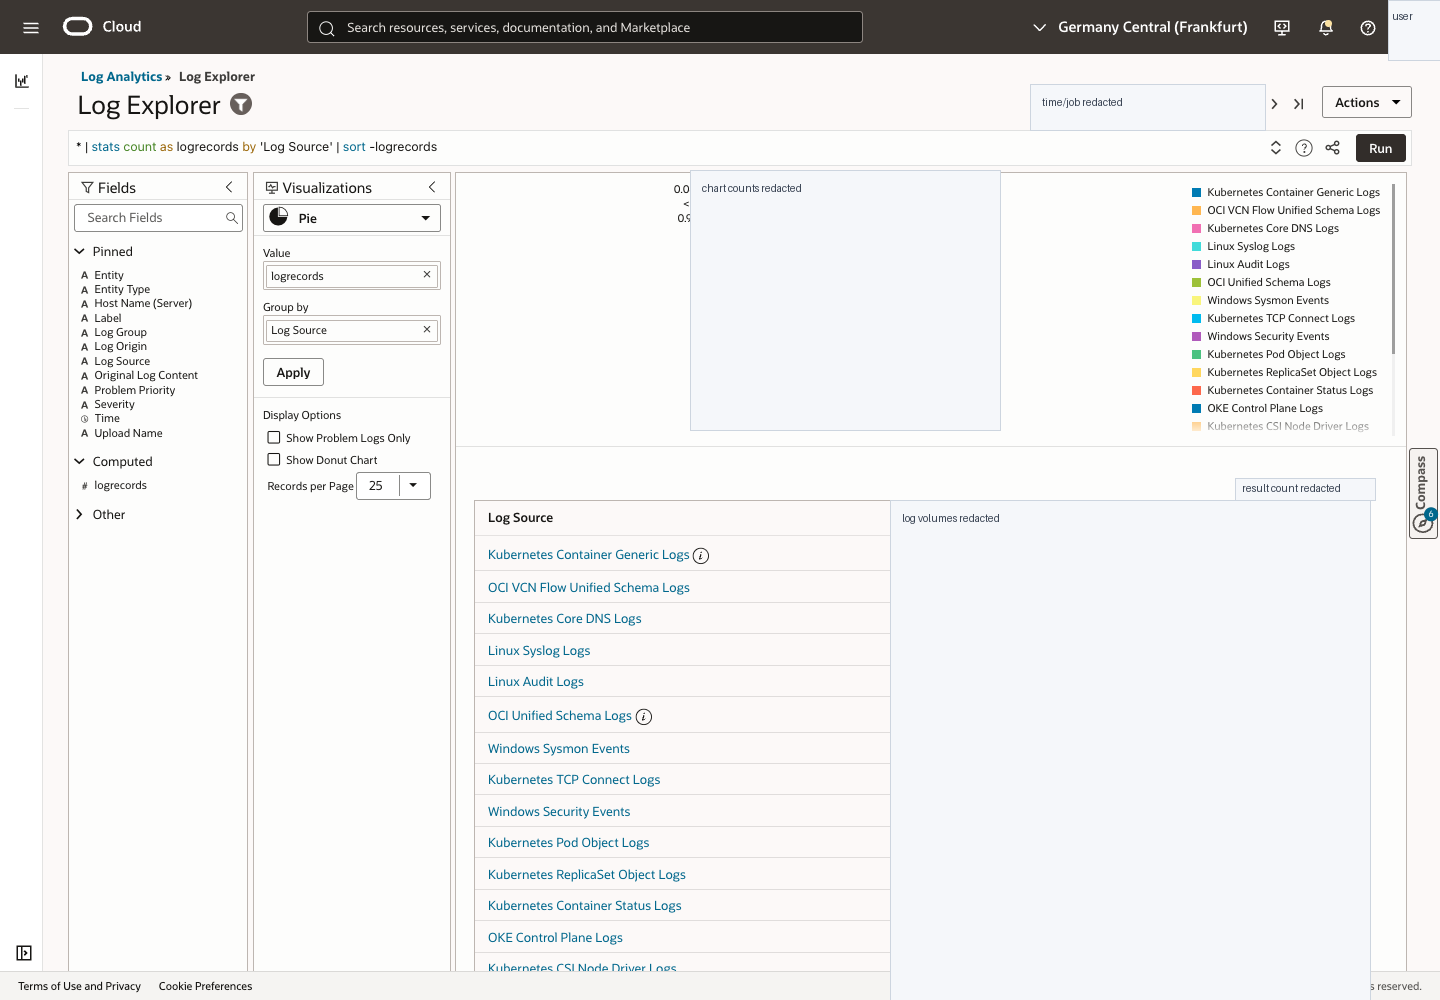
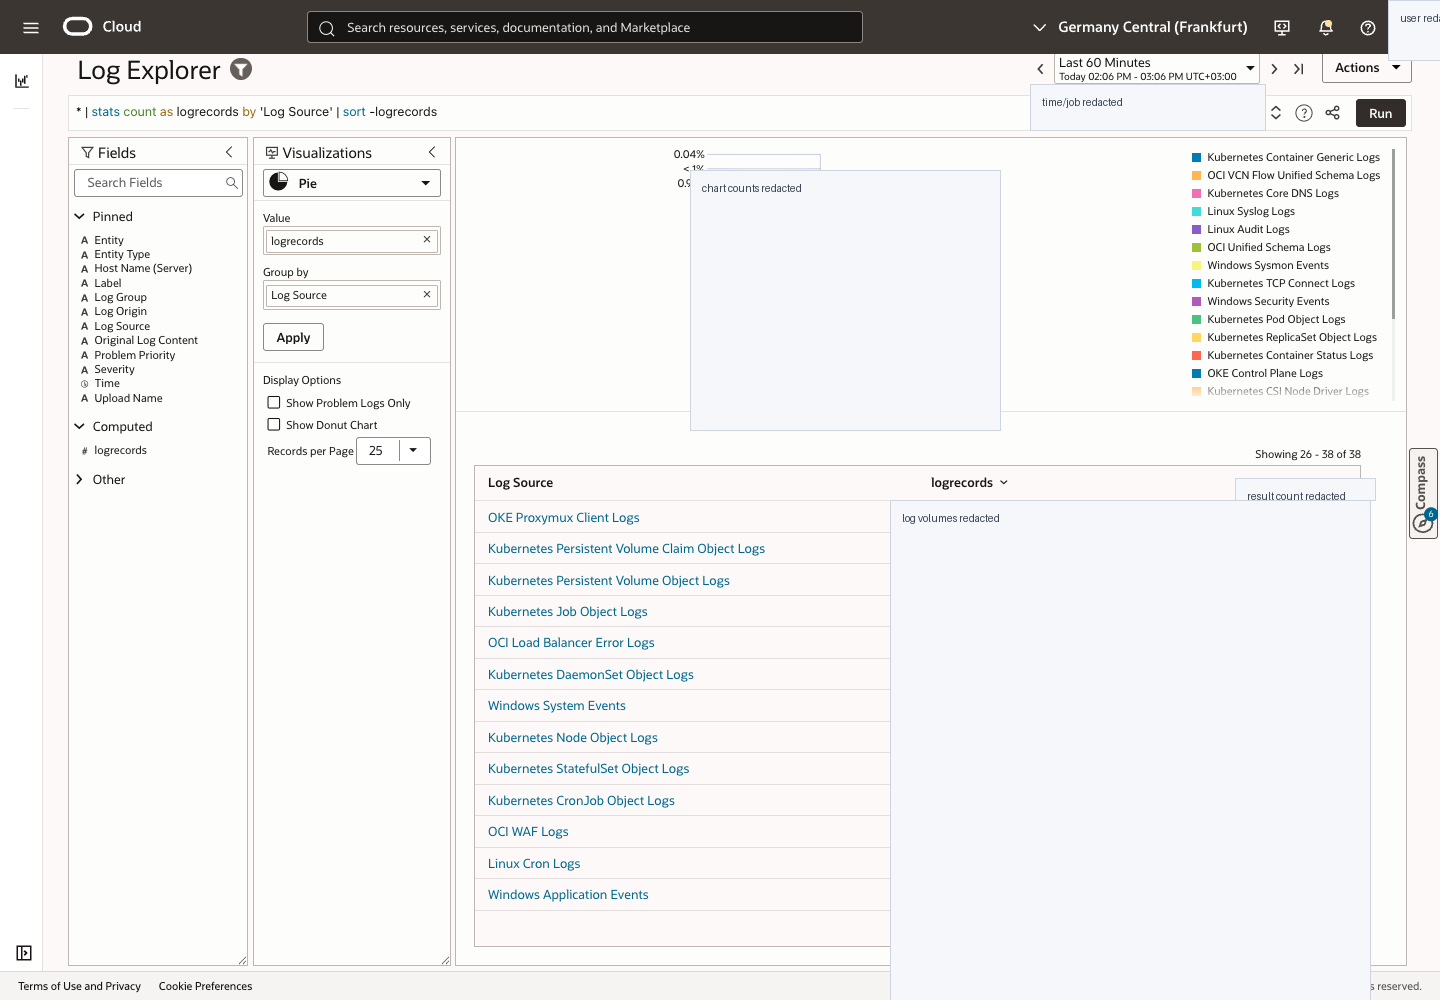
docs: automate authenticated screenshot capture

diff --git a/scripts/capture-authenticated-screenshots.js b/scripts/capture-authenticated-screenshots.js
@@ -1,0 +1,95 @@
+const fs = require("fs");
+const path = require("path");
+
+const rootDir = path.resolve(__dirname, "..");
+const port = process.env.CHROME_DEBUG_PORT || "9223";
+const liveDir = path.join(rootDir, "docs/wiki/assets/live");
+
+function sleep(ms) {
+  return new Promise((resolve) => setTimeout(resolve, ms));
+}
+
+async function fetchJson(url) {
+  const response = await fetch(url);
+  if (!response.ok) {
+    throw new Error(`GET ${url} failed: ${response.status} ${response.statusText}`);
+  }
+  return response.json();
+}
+
+async function capturePage(webSocketDebuggerUrl, outputPath) {
+  const ws = new WebSocket(webSocketDebuggerUrl);
+  let id = 0;
+  const pending = new Map();
+
+  ws.onmessage = (event) => {
+    const message = JSON.parse(event.data);
+    if (message.id && pending.has(message.id)) {
+      pending.get(message.id)(message);
+      pending.delete(message.id);
+    }
+  };
+
+  await new Promise((resolve, reject) => {
+    ws.onopen = resolve;
+    ws.onerror = reject;
+  });
+
+  const send = (method, params = {}) => new Promise((resolve) => {
+    const callId = ++id;
+    pending.set(callId, resolve);
+    ws.send(JSON.stringify({ id: callId, method, params }));
+  });
+
+  await send("Page.enable");
+  await send("Page.bringToFront");
+  await send("Emulation.setDeviceMetricsOverride", {
+    width: 1440,
+    height: 1000,
+    deviceScaleFactor: 1,
+    mobile: false,
+  });
+  await sleep(3000);
+
+  const screenshot = await send("Page.captureScreenshot", {
+    format: "png",
+    fromSurface: true,
+    captureBeyondViewport: false,
+  });
+
+  if (!screenshot.result || !screenshot.result.data) {
+    throw new Error(`Failed to capture ${outputPath}`);
+  }
+
+  fs.mkdirSync(path.dirname(outputPath), { recursive: true });
+  fs.writeFileSync(outputPath, Buffer.from(screenshot.result.data, "base64"));
+  ws.close();
+}
+
+async function main() {
+  const tabs = await fetchJson(`http://127.0.0.1:${port}/json/list`);
+  const pageTabs = tabs.filter((tab) => tab.type === "page");
+  const wazuh = pageTabs.find((tab) => tab.url.includes("127.0.0.1:8443"));
+  const oci = pageTabs.find((tab) => tab.url.includes("cloud.oracle.com/loganalytics"));
+
+  if (!wazuh) {
+    throw new Error("No Wazuh page found. Open https://127.0.0.1:8443 and authenticate first.");
+  }
+  if (!oci) {
+    throw new Error("No OCI Log Analytics page found. Open Log Explorer and authenticate first.");
+  }
+
+  await capturePage(
+    wazuh.webSocketDebuggerUrl,
+    path.join(liveDir, "wazuh-authenticated-overview.png"),
+  );
+  await capturePage(
+    oci.webSocketDebuggerUrl,
+    path.join(liveDir, "oci-log-analytics-explorer.png"),
+  );
+}
+
+main().catch((error) => {
+  console.error(error.message);
+  process.exit(1);
+});

diff --git a/scripts/sanitize-dashboard-screenshots.py b/scripts/sanitize-dashboard-screenshots.py
@@ -1,0 +1,62 @@
+#!/usr/bin/env python3
+from pathlib import Path
+
+try:
+    from PIL import Image, ImageDraw
+except Exception as exc:  # pragma: no cover - dependency check path
+    raise SystemExit(f"Pillow is required to sanitize screenshots: {exc}")
+
+
+ROOT = Path(__file__).resolve().parents[1]
+ASSET_DIR = ROOT / "docs/wiki/assets"
+LIVE_DIR = ASSET_DIR / "live"
+
+
+def label(draw, rect, text):
+    draw.rectangle(rect, fill=(245, 247, 250), outline=(205, 213, 223))
+    draw.text((rect[0] + 12, rect[1] + 12), text, fill=(55, 65, 81))
+
+
+def sanitize_wazuh():
+    source = LIVE_DIR / "wazuh-authenticated-overview.png"
+    target = ASSET_DIR / "wazuh-authenticated-overview-sanitized.png"
+    image = Image.open(source).convert("RGB")
+    draw = ImageDraw.Draw(image)
+
+    masks = [
+        ((210, 95, 320, 170), "count redacted"),
+        ((500, 110, 1370, 245), "live alert volumes redacted"),
+        ((1325, 0, 1435, 52), "user redacted"),
+    ]
+    for rect, text in masks:
+        label(draw, rect, text)
+
+    image.save(target)
+
+
+def sanitize_oci():
+    source = LIVE_DIR / "oci-log-analytics-explorer.png"
+    target = ASSET_DIR / "oci-log-analytics-explorer-sanitized.png"
+    image = Image.open(source).convert("RGB")
+    draw = ImageDraw.Draw(image)
+
+    masks = [
+        ((1030, 84, 1265, 130), "time/job redacted"),
+        ((1388, 0, 1440, 60), "user redacted"),
+        ((690, 170, 1000, 430), "chart counts redacted"),
+        ((890, 500, 1370, 1000), "log volumes redacted"),
+        ((1235, 478, 1375, 500), "result count redacted"),
+    ]
+    for rect, text in masks:
+        label(draw, rect, text)
+
+    image.save(target)
+
+
+def main():
+    sanitize_wazuh()
+    sanitize_oci()
+
+
+if __name__ == "__main__":
+    main()

diff --git a/docs/wiki/WAZUH_LOG_ANALYTICS_HANDS_ON.md b/docs/wiki/WAZUH_LOG_ANALYTICS_HANDS_ON.md
@@ -362,7 +362,26 @@ npx playwright screenshot --ignore-https-errors --wait-for-timeout=8000 \
   docs/wiki/assets/wazuh-login.png
 ```
 
-Authenticated Wazuh and OCI screenshots should be captured into `docs/wiki/assets/live/`, sanitized, and only then copied or generated into public-safe assets:
+Authenticated Wazuh and OCI screenshots should be captured into `docs/wiki/assets/live/`, sanitized, and only then copied or generated into public-safe assets.
+
+Open a dedicated Chrome profile for authentication:
+
+```bash
+open -na "Google Chrome" --args \
+  --remote-debugging-port=9223 \
+  --user-data-dir=/Users/abirzu/dev/OCI-Wazuh/.tmp-chrome-auth-profile \
+  --ignore-certificate-errors \
+  https://127.0.0.1:8443/app/login \
+  'https://cloud.oracle.com/loganalytics/explorer?region=eu-frankfurt-1'
+```
+
+After authenticating to Wazuh and OCI Log Analytics, capture and sanitize:
+
+```bash
+make auth-screenshots
+```
+
+The raw authenticated screenshots stay ignored in `docs/wiki/assets/live/`. Only commit these sanitized files:
 
 ```text
 docs/wiki/assets/wazuh-authenticated-overview-sanitized.png

diff --git a/docs/wiki/WAZUH_LOG_ANALYTICS_MODULE_INDEX.md b/docs/wiki/WAZUH_LOG_ANALYTICS_MODULE_INDEX.md
@@ -58,3 +58,11 @@ make wazuh-log-analytics
 make log-analytics-bridge
 make down
 ```
+
+## Screenshot Commands
+
+```bash
+make auth-screenshots
+```
+
+`make auth-screenshots` expects an already-authenticated Chrome session with remote debugging on port `9223`. It writes raw screenshots to ignored local storage and committed-safe sanitized copies to `docs/wiki/assets/`.